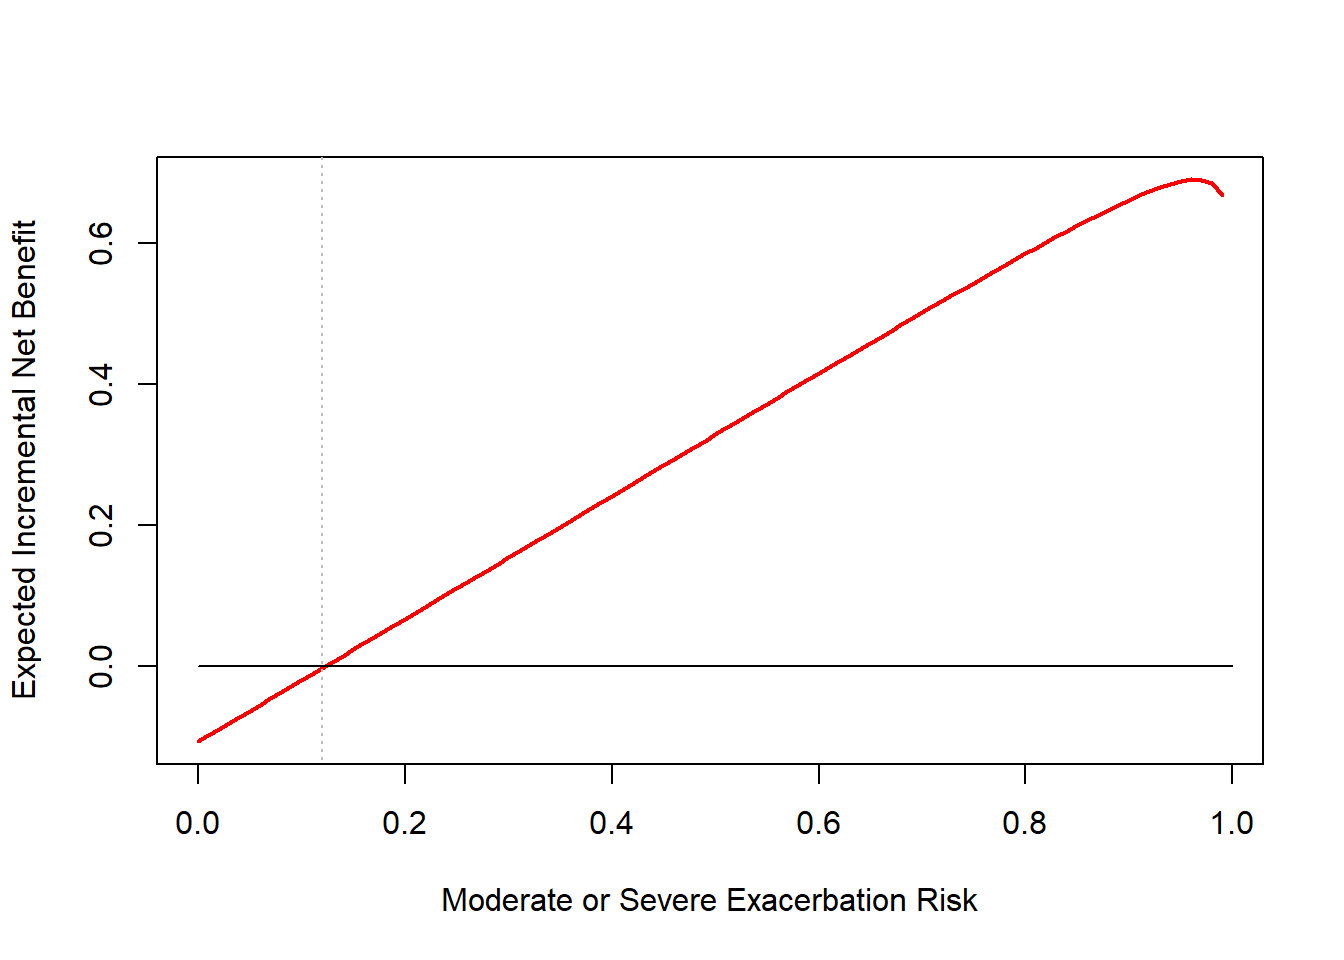
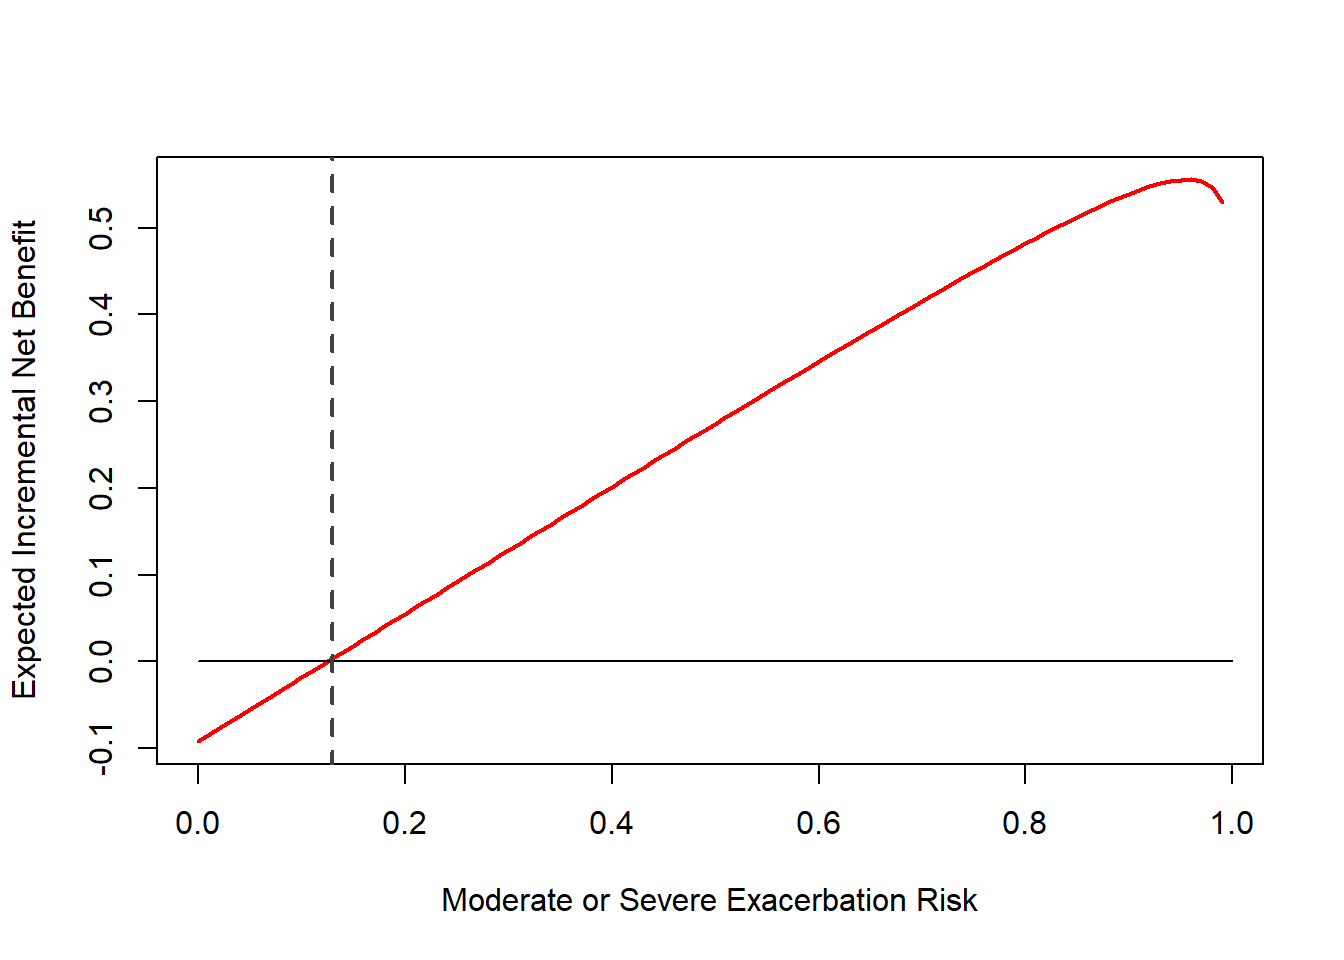
JCE V2.0

diff --git a/OptimalCutpointDCE/optimal_positivity.html b/OptimalCutpointDCE/optimal_positivity.html
@@ -7,7 +7,7 @@
 <meta name="viewport" content="width=device-width, initial-scale=1.0, user-scalable=yes">
 
 <meta name="author" content="Mohsen Sadatsafavi">
-<meta name="dcterms.date" content="2024-04-29">
+<meta name="dcterms.date" content="2024-07-29">
 
 <title>Patient-informed treatment thresholds</title>
 <style>
@@ -98,7 +98,7 @@ pre > code.sourceCode > span > a:first-child::before { text-decoration: underlin
     <div>
     <div class="quarto-title-meta-heading">Published</div>
     <div class="quarto-title-meta-contents">
-      <p class="date">April 29, 2024</p>
+      <p class="date">July 29, 2024</p>
     </div>
   </div>
   
@@ -110,7 +110,7 @@ pre > code.sourceCode > span > a:first-child::before { text-decoration: underlin
 
 <div class="cell">
 <div class="sourceCode cell-code" id="cb1"><pre class="sourceCode r code-with-copy"><code class="sourceCode r"><span id="cb1-1"><a href="#cb1-1" aria-hidden="true" tabindex="-1"></a>settings <span class="ot">&lt;-</span> <span class="fu">list</span>(</span>
-<span id="cb1-2"><a href="#cb1-2" aria-hidden="true" tabindex="-1"></a>  <span class="at">dce_source=</span><span class="st">"pooled"</span>,</span>
+<span id="cb1-2"><a href="#cb1-2" aria-hidden="true" tabindex="-1"></a>  <span class="at">dce_source=</span><span class="st">"copd"</span>,  <span class="co">#pooled: all participants, copd: copd patients, genpop: general public</span></span>
 <span id="cb1-3"><a href="#cb1-3" aria-hidden="true" tabindex="-1"></a>  <span class="at">n_sim=</span><span class="dv">10000</span>,</span>
 <span id="cb1-4"><a href="#cb1-4" aria-hidden="true" tabindex="-1"></a>  <span class="at">ci=</span>F,</span>
 <span id="cb1-5"><a href="#cb1-5" aria-hidden="true" tabindex="-1"></a>  <span class="at">voi=</span>F</span>
@@ -153,11 +153,11 @@ pre > code.sourceCode > span > a:first-child::before { text-decoration: underlin
 <p>#All parameters used in this analysis</p>
 <div class="cell">
 <div class="cell-output cell-output-stdout">
-<pre><code> [1] "list(betas = list(mu = c(-0.0717416, -0.0283542, -0.0846835, "                    
- [2] "-0.0181352), covmat = structure(c(8.611e-06, 5.017e-07, 6.546e-06, "              
- [3] "1.422e-06, 5.017e-07, 3.748e-06, 3.934e-07, 8.82e-07, 6.546e-06, "                
- [4] "3.934e-07, 1.937e-05, 1.75e-06, 1.422e-06, 8.82e-07, 1.75e-06, "                  
- [5] "3.017e-06), dim = c(4L, 4L))), rr_exac = list(log_mu = -0.261364764134408, "      
+<pre><code> [1] "list(betas = list(mu = c(-0.0565501, -0.0253486, -0.0807761, "                    
+ [2] "-0.0150339), covmat = structure(c(2.018e-05, 1.316e-06, 1.847e-05, "              
+ [3] "4.558e-06, 1.316e-06, 7.701e-06, 6.628e-07, 2.249e-06, 1.847e-05, "               
+ [4] "6.628e-07, 5.773e-05, 5.11e-06, 4.558e-06, 2.249e-06, 5.11e-06, "                 
+ [5] "8.665e-06), dim = c(4L, 4L))), rr_exac = list(log_mu = -0.261364764134408, "      
  [6] "    se = 0.0724346301890749), z = list(alpha = 22, beta = 78), "                  
  [7] "    inc_hearing_loss = list(alpha = 0.749965023511863, beta = 32.6071749352984), "
  [8] "    rr_hearing_loss = list(log_mu = 0.155292884406035, se = 0.0642483819379186), "
@@ -173,10 +173,10 @@ pre > code.sourceCode > span > a:first-child::before { text-decoration: underlin
 </div>
 <div class="cell-output cell-output-stdout">
 <pre><code>  attr_names      mu     se
-1         SE -0.0717 0.0029
-2         ME -0.0284 0.0019
-3         HL -0.0847 0.0044
-4         GI -0.0181 0.0017</code></pre>
+1         SE -0.0566 0.0045
+2         ME -0.0253 0.0028
+3         HL -0.0808 0.0076
+4         GI -0.0150 0.0029</code></pre>
 </div>
 </div>
 </section>
@@ -197,7 +197,7 @@ pre > code.sourceCode > span > a:first-child::before { text-decoration: underlin
 <span id="cb6-11"><a href="#cb6-11" aria-hidden="true" tabindex="-1"></a></span>
 <span id="cb6-12"><a href="#cb6-12" aria-hidden="true" tabindex="-1"></a><span class="fu">plot</span>(xs,ys_mean,<span class="at">xlab=</span><span class="st">'Moderate or Severe Exacerbation Risk'</span>,<span class="at">ylab=</span><span class="st">'Expected Incremental Net Benefit'</span>, <span class="at">type=</span><span class="st">'l'</span>, <span class="at">col=</span><span class="st">'red'</span>, <span class="at">lwd=</span><span class="dv">2</span>, <span class="at">ylim=</span><span class="fu">c</span>(<span class="fu">min</span>(<span class="dv">0</span>,<span class="fu">min</span>(ys_mean)),<span class="fu">max</span>(ys_mean)))</span>
 <span id="cb6-13"><a href="#cb6-13" aria-hidden="true" tabindex="-1"></a><span class="fu">lines</span>(<span class="fu">c</span>(<span class="dv">0</span>,<span class="dv">1</span>),<span class="fu">c</span>(<span class="dv">0</span>,<span class="dv">0</span>),<span class="at">type=</span><span class="st">'l'</span>, <span class="at">col=</span><span class="st">'black'</span>)</span>
-<span id="cb6-14"><a href="#cb6-14" aria-hidden="true" tabindex="-1"></a><span class="fu">lines</span>(<span class="fu">c</span>(xs[i1],xs[i1]),<span class="fu">c</span>(<span class="sc">-</span><span class="dv">100</span>,<span class="dv">100</span>), <span class="at">col=</span><span class="st">'gray'</span>, <span class="at">lty=</span><span class="dv">3</span>)</span></code><button title="Copy to Clipboard" class="code-copy-button"><i class="bi"></i></button></pre></div>
+<span id="cb6-14"><a href="#cb6-14" aria-hidden="true" tabindex="-1"></a><span class="fu">lines</span>(<span class="fu">c</span>(xs[i1],xs[i1]),<span class="fu">c</span>(<span class="sc">-</span><span class="dv">100</span>,<span class="dv">100</span>), <span class="at">col=</span><span class="st">'#404040'</span>, <span class="at">lty=</span><span class="dv">2</span>, <span class="at">lw=</span><span class="dv">2</span>)</span></code><button title="Copy to Clipboard" class="code-copy-button"><i class="bi"></i></button></pre></div>
 <div class="cell-output-display">
 <p><img src="optimal_positivity_files/figure-html/unnamed-chunk-7-1.png" class="img-fluid" width="672"></p>
 </div>
@@ -207,7 +207,7 @@ pre > code.sourceCode > span > a:first-child::before { text-decoration: underlin
 <span id="cb7-4"><a href="#cb7-4" aria-hidden="true" tabindex="-1"></a>  <span class="fu">lines</span>(xs,ys_ci[<span class="dv">2</span>,], <span class="at">type=</span><span class="st">'l'</span>, <span class="at">col=</span><span class="st">'gray'</span>, <span class="at">lwd=</span><span class="dv">1</span>)</span>
 <span id="cb7-5"><a href="#cb7-5" aria-hidden="true" tabindex="-1"></a>}</span></code><button title="Copy to Clipboard" class="code-copy-button"><i class="bi"></i></button></pre></div>
 </div>
-<p>Optimal treatment threshold: 0.12</p>
+<p>Optimal treatment threshold: 0.13</p>
 </section>
 <section id="ceac" class="level1">
 <h1>CEAC</h1>
@@ -216,12 +216,12 @@ pre > code.sourceCode > span > a:first-child::before { text-decoration: underlin
 <span id="cb8-2"><a href="#cb8-2" aria-hidden="true" tabindex="-1"></a>i2 <span class="ot">&lt;-</span> <span class="fu">which.min</span>((ps<span class="fl">-0.9</span>)<span class="sc">^</span><span class="dv">2</span>)</span>
 <span id="cb8-3"><a href="#cb8-3" aria-hidden="true" tabindex="-1"></a><span class="fu">plot</span>(xs,ps,<span class="at">type=</span><span class="st">'l'</span>,<span class="at">xlab=</span><span class="st">"Moderate or Severe Exacerbation Risk"</span>, <span class="at">ylab=</span><span class="st">"Probability of Positive Incremental Net Benefit"</span>, <span class="at">lwd=</span><span class="dv">2</span>, <span class="at">col=</span><span class="st">'red'</span>, <span class="at">ylim=</span><span class="fu">c</span>(<span class="dv">0</span>,<span class="dv">1</span>))</span>
 <span id="cb8-4"><a href="#cb8-4" aria-hidden="true" tabindex="-1"></a><span class="fu">lines</span>(<span class="fu">c</span>(<span class="dv">0</span>,<span class="dv">1</span>),<span class="fu">c</span>(<span class="dv">0</span>,<span class="dv">0</span>),<span class="at">type=</span><span class="st">'l'</span>, <span class="at">col=</span><span class="st">'black'</span>)</span>
-<span id="cb8-5"><a href="#cb8-5" aria-hidden="true" tabindex="-1"></a><span class="fu">lines</span>(<span class="fu">c</span>(xs[i1],xs[i1]),<span class="fu">c</span>(<span class="sc">-</span><span class="dv">100</span>,<span class="dv">100</span>), <span class="at">col=</span><span class="st">'gray'</span>, <span class="at">lty=</span><span class="dv">3</span>)</span></code><button title="Copy to Clipboard" class="code-copy-button"><i class="bi"></i></button></pre></div>
+<span id="cb8-5"><a href="#cb8-5" aria-hidden="true" tabindex="-1"></a><span class="fu">lines</span>(<span class="fu">c</span>(xs[i1],xs[i1]),<span class="fu">c</span>(<span class="sc">-</span><span class="dv">100</span>,<span class="dv">100</span>), <span class="at">col=</span><span class="st">'#404040'</span>, <span class="at">lty=</span><span class="dv">2</span>, <span class="at">lw=</span><span class="dv">2</span>)</span></code><button title="Copy to Clipboard" class="code-copy-button"><i class="bi"></i></button></pre></div>
 <div class="cell-output-display">
 <p><img src="optimal_positivity_files/figure-html/unnamed-chunk-8-1.png" class="img-fluid" width="672"></p>
 </div>
 </div>
-<p>P(INB&gt;0) at 0 thresholds 0.1445 P(INB&gt;0) at optimal thresholds 0.5135 Threshold where P(INB&gt;0)=0.9 0.31</p>
+<p>P(INB&gt;0) at 0 thresholds 0.1366 P(INB&gt;0) at optimal thresholds 0.5452 Threshold where P(INB&gt;0)=0.9 0.32</p>
 <section id="marginal-rate-of-substitution" class="level2">
 <h2 class="anchored" data-anchor-id="marginal-rate-of-substitution">Marginal rate of substitution</h2>
 <div class="cell">
@@ -243,15 +243,15 @@ pre > code.sourceCode > span > a:first-child::before { text-decoration: underlin
 </tr>
 <tr class="even">
 <td style="text-align: left;">ME</td>
-<td style="text-align: right;">0.3952268</td>
+<td style="text-align: right;">0.4482503</td>
 </tr>
 <tr class="odd">
 <td style="text-align: left;">HL</td>
-<td style="text-align: right;">1.1803960</td>
+<td style="text-align: right;">1.4283989</td>
 </tr>
 <tr class="even">
 <td style="text-align: left;">GI</td>
-<td style="text-align: right;">0.2527850</td>
+<td style="text-align: right;">0.2658510</td>
 </tr>
 </tbody>
 </table>
@@ -272,25 +272,22 @@ pre > code.sourceCode > span > a:first-child::before { text-decoration: underlin
 <tr class="odd">
 <td style="text-align: left;">2.5%</td>
 <td style="text-align: right;">1</td>
-<td style="text-align: right;">0.3379033</td>
-<td style="text-align: right;">1.070688</td>
-<td style="text-align: right;">0.2067169</td>
+<td style="text-align: right;">0.3435077</td>
+<td style="text-align: right;">1.195248</td>
+<td style="text-align: right;">0.1679253</td>
 </tr>
 <tr class="even">
 <td style="text-align: left;">97.5%</td>
 <td style="text-align: right;">1</td>
-<td style="text-align: right;">0.4559252</td>
-<td style="text-align: right;">1.291052</td>
-<td style="text-align: right;">0.2994847</td>
+<td style="text-align: right;">0.5699933</td>
+<td style="text-align: right;">1.674091</td>
+<td style="text-align: right;">0.3637430</td>
 </tr>
 </tbody>
 </table>
 </div>
 </div>
 </section>
-</section>
-<section id="voi-if-enabled" class="level1">
-<h1>VoI (if enabled)</h1>
 </section>
 
 </main>
